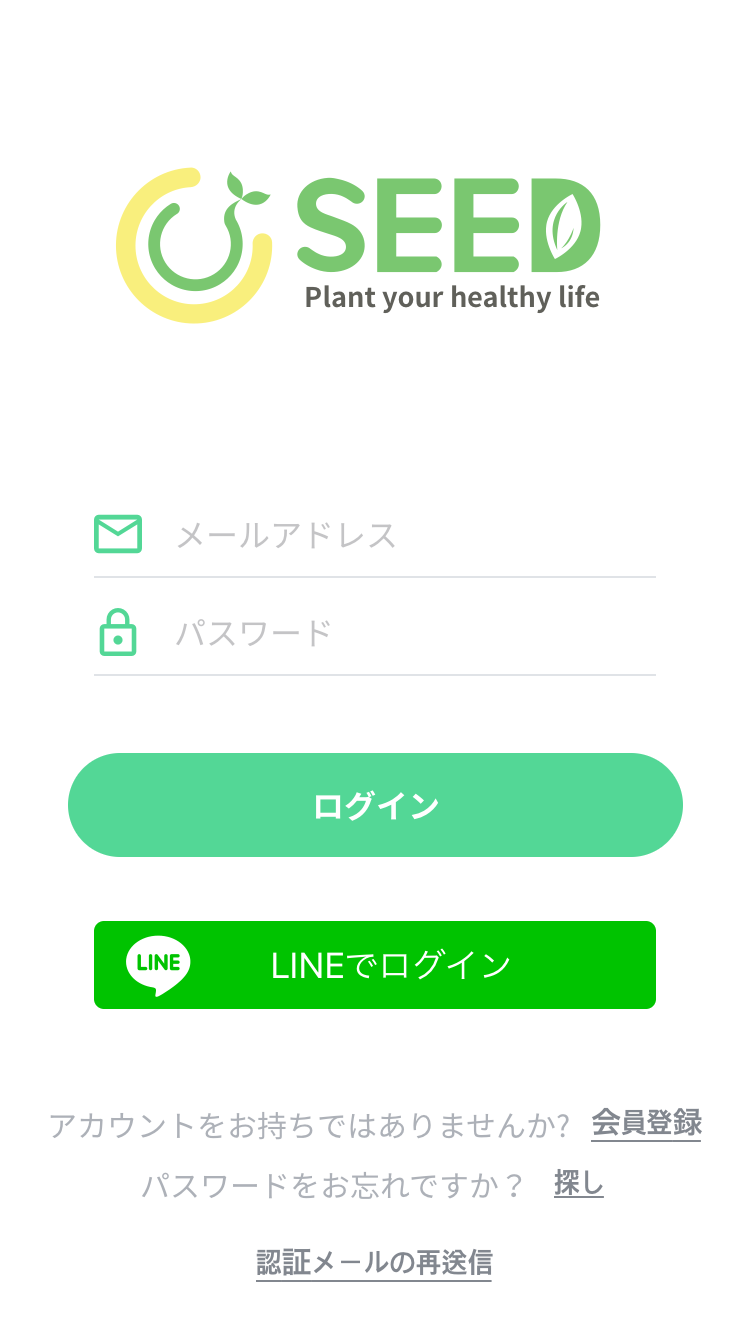
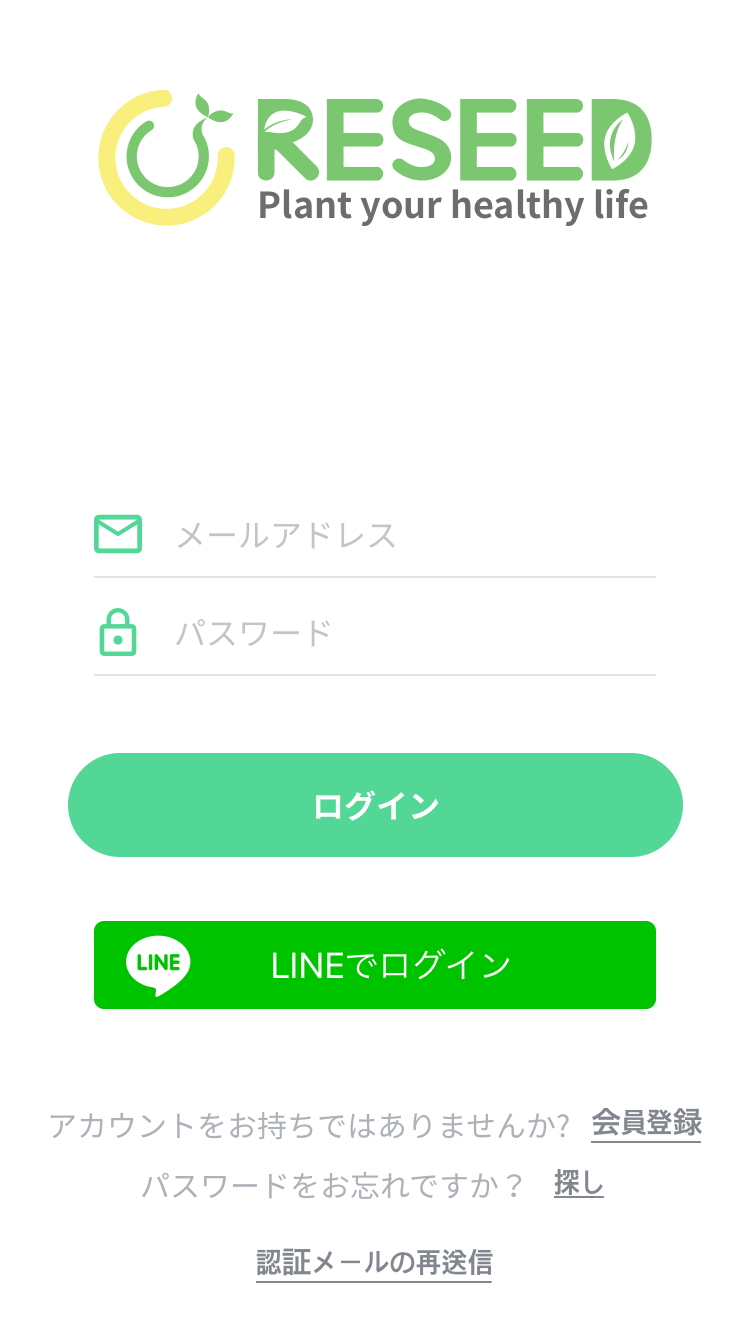
- SEED로 되어있는 부분 RESEED로 수정

Changed region(s): [[0.1227, 0.0615, 0.8893, 0.2459]]

diff --git a/app-guide-pairing.html b/app-guide-pairing.html
@@ -35,7 +35,10 @@
                                 <li>それでも接続できない場合は、カスタマーサービスまでお問い合わせください。</li>
                             </ol>
                         <li>Androidアプリの場合、ペアリングをため「位置情報へのアクセス」を「許可」が必要です。</li>
-                        →「許可しない」を選択した場合、[設定] → [アプリ] → [SEED] → [權限] → [位置情報]で「許可」してください。
+                            <ol>
+                                <li>「許可しない」を選択した場合、[設定] → [アプリ] → [RESEED] → [權限] → [位置情報]で「許可」してください。</li>
+                                <li>Bluetooth使用するためには、Androidの設定の位置情報がオンになっている必要があります。</li>
+                            </ol>
                     </ul>
                 </div>
             </td>

diff --git a/app-guide-flower.html b/app-guide-flower.html
@@ -47,7 +47,7 @@
                 <div class="explainBox">
 
                     <ul>
-                        <li>しばらく悪い姿勢を維持するとSEEDは振動で教えます。</li>
+                        <li>しばらく悪い姿勢を維持するとRESEEDは振動で教えます。</li>
                         <li>もし、振動が邪魔ならボタンを押して振動を消してください。</li>
                     </ul>
                 </div>
